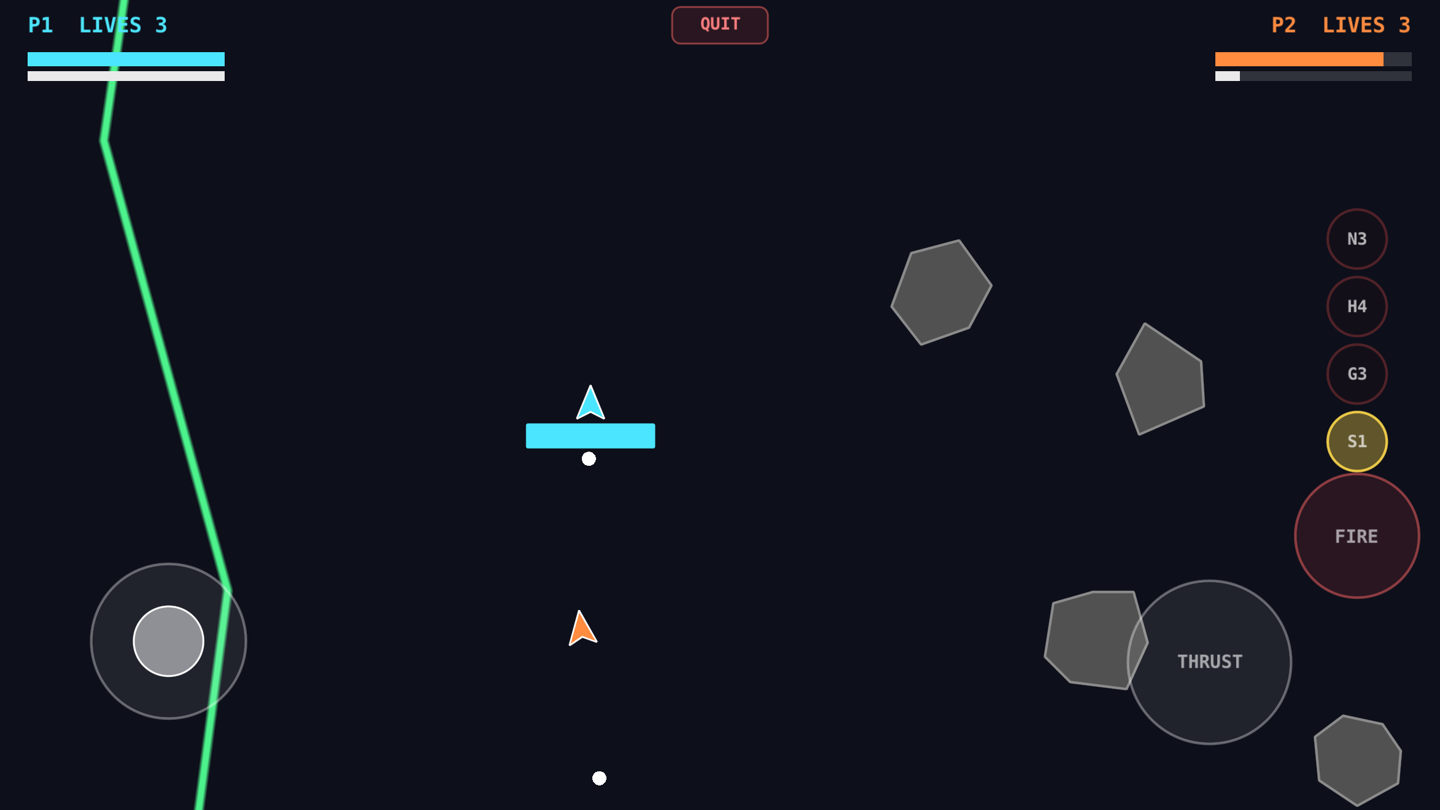
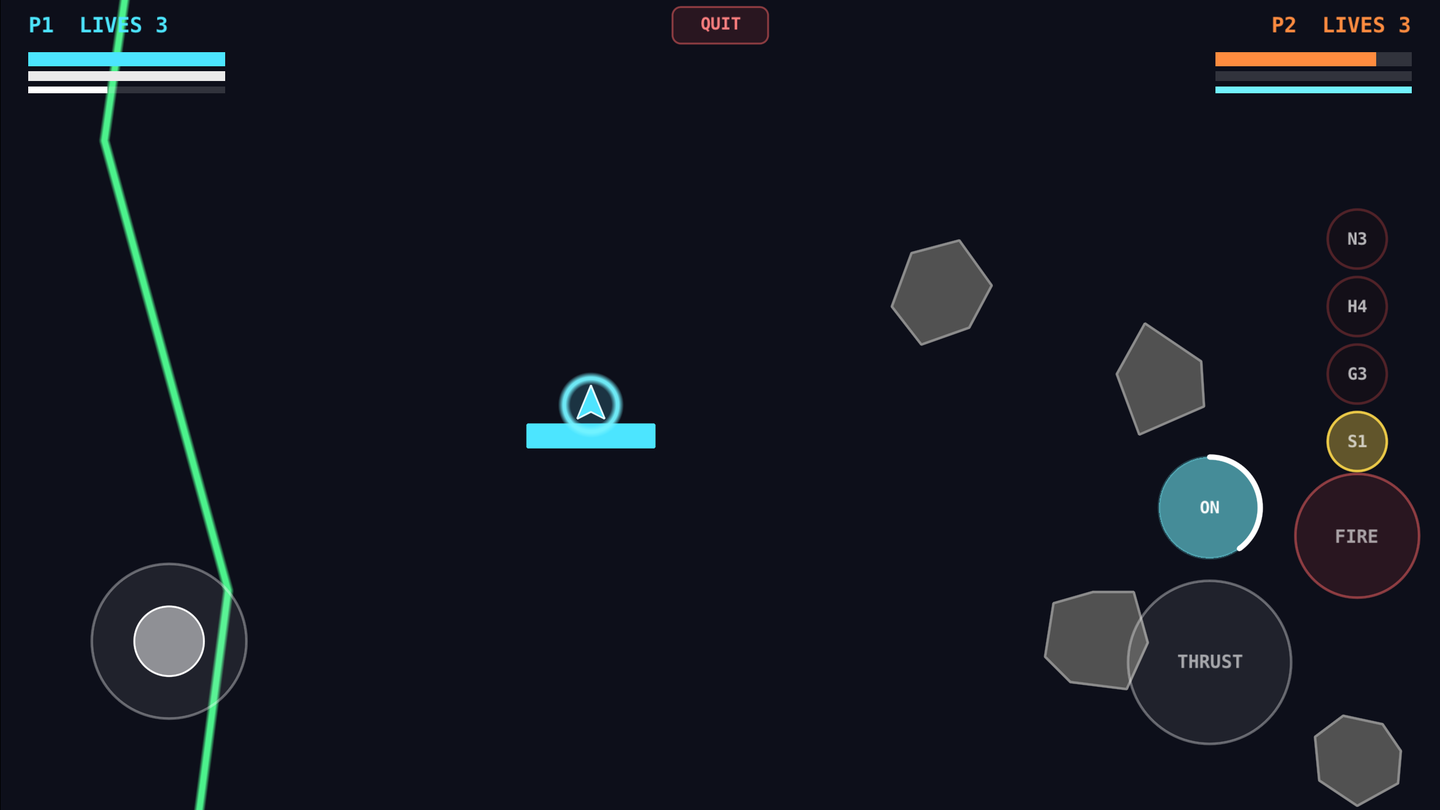
Describe the shield and RULES 6: features, controls, FAQ, privacy table; new screenshots

diff --git a/support.html b/support.html
@@ -28,8 +28,9 @@
       <li><strong>Objective:</strong> each ship has 3 lives. Land 3 hits on your opponent to win.</li>
       <li><strong>Steering:</strong> the stick on the left aims your ship. <span class="label">THRUST</span> fires the engine.</li>
       <li><strong>Firing:</strong> <span class="label">FIRE</span> shoots the loaded round. The buttons above it pick the weapon.</li>
+      <li><strong>Shield:</strong> <span class="label">SHIELD</span> raises a shield for one second. Every shot that touches you in that second is blocked: standard rounds, shotgun pellets, Heat-Seekers and Grenade blasts. After it drops it needs five seconds to recharge. The ring on the button and the thin bar under the ammo bar show where it is, and the other player's bar shows theirs, so you can tell when it's safe to shoot. It doesn't stop a collision with the other ship or with a wall.</li>
       <li><strong>Refuel and rearm:</strong> land gently on <em>your own</em> platform to refill fuel and ammo, and to change weapons.</li>
-      <li><strong>Hazards:</strong> cave walls and rocks are harmless, you just bounce off. Crashing into the other ship destroys you <em>both</em>.</li>
+      <li><strong>Hazards:</strong> cave walls and rocks are harmless, you just bounce off. Crashing into the other ship destroys you <em>both</em>, shield or not.</li>
     </ul>
     <p>The same rules are always available in the app under <span class="label">HELP</span> on the main menu.</p>
   </section>
@@ -38,7 +39,7 @@
     <h2>Game modes</h2>
     <ul>
       <li><span class="label">PLAY NEARBY</span>: two devices in the same room, connected directly over Wi-Fi or Bluetooth. No internet needed.</li>
-      <li><span class="label">PRACTICE (ONE DEVICE)</span>: you against the computer. Pick how hard it plays in <span class="label">SETTINGS</span>.</li>
+      <li><span class="label">PRACTICE (ONE DEVICE)</span>: you against the computer. Pick how hard it plays in <span class="label">SETTINGS</span>: six levels, <span class="label">RULES 1</span> (gentle) to <span class="label">RULES 5</span> (ruthless). Levels 3 to 5 use their shield and sidestep shots they have time to see, and the higher levels react faster. <span class="label">RULES 6</span> plays like level 5 but <em>learns how you fly</em> (see below). <span class="label">STATS</span> shows your record against each level.</li>
       <li><span class="label">AI VS AI</span>: sit back and watch two computer pilots fight it out. The camera zooms out to keep both ships in view, and in as they get close.</li>
       <li><span class="label">REPLAYS</span>: every match is saved on your device (the last 30 are kept). Watch one back from the main menu, pause it, change the speed, and let the camera follow the action or zoom by hand with <span class="label">ZOOM MANUAL</span>: the + and - buttons, or pinch and drag.</li>
     </ul>
@@ -62,6 +63,8 @@
     <p><strong>I tap a weapon and nothing happens.</strong><br>That weapon isn't unlocked yet. The game shows its price for a moment. Buy it in the <span class="label">SHOP</span>. You can also only switch weapons while landed on your own platform.</p>
     <p><strong>PLAY NEARBY doesn't find the other device.</strong><br>Both devices need Wi-Fi or Bluetooth switched on, and both must have allowed Rocket Duel to use the local network. Check that under Settings → Privacy &amp; Security → Local Network. Both devices also need the same version of the game from the App Store.</p>
     <p><strong>My coins or unlocks disappeared.</strong><br>They are stored only on your device, so deleting the app deletes them. They don't carry over between devices.</p>
+    <p><strong>How does RULES 6 learn?</strong><br>After each practice match you finish against <span class="label">RULES 6</span>, it studies the recording of that match: how much of your speed you really keep when it leads its shots, whether you use your shield, and which fighting distance has worked best against you. It then plays the next match a little differently, and the result screen tells you what it noticed. It never gets faster reactions or more ammo than level 5, and it only learns from matches you finish. The first time you choose it, it also studies the practice matches already saved on your device. Everything it learns is stored only on your device. To wipe it, choose <span class="label">RULES 6</span> in <span class="label">SETTINGS</span> and tap the "has studied" line twice.</p>
+    <p><strong>The computer used its shield and I couldn't hit it.</strong><br>The shield only lasts one second and then takes five to recharge. A shot fired right after it drops lands. The computer also can't react to a shot fired from point-blank range any faster than you could.</p>
     <p><strong>Where are my replays?</strong><br>Tap <span class="label">REPLAYS</span> on the main menu. Matches you quit after a few seconds are kept as <em>unfinished</em>. Tap the cross on a row twice to delete it. Replays are stored only on your device, so deleting the app deletes them.</p>
     <p><strong>I bought Remove Ads, but I'm seeing ads again.</strong><br>This can happen after reinstalling or on a new device. Tap <span class="label">REMOVE ADS</span> on the main menu, then <strong>Restore Purchases</strong>. The purchase is tied to your Apple Account, so you never need to buy it twice.</p>
     <p><strong>I don't want to sign in to Game Center.</strong><br>You don't need to. Game Center only keeps the online win leaderboard. Everything else works without it.</p>

diff --git a/privacy.html b/privacy.html
@@ -23,7 +23,7 @@
   <p class="updated">Last updated October 4, 2026</p>
 
   <div class="summary">
-    <p><strong>The short version:</strong> Your coins, unlocks, stats and settings stay on your device. We have no servers, no accounts and no analytics of our own.</p>
+    <p><strong>The short version:</strong> Your coins, unlocks, stats, settings and anything the computer learns about how you play stay on your device. We have no servers, no accounts and no analytics of our own.</p>
     <p>Three things do leave your device: match data sent straight to your opponent's device when you play nearby, your wins sent to Apple's Game Center if you're signed in, and the data Google's ad service collects to show ads. All three are covered in full below.</p>
   </div>
 
@@ -35,12 +35,14 @@
         <tr><td>Coins, unlocked weapons and ship skins</td><td>Your device's local app storage</td><td><span class="pill">No</span></td></tr>
         <tr><td>Your win/loss stats</td><td>Your device's local app storage</td><td><span class="pill">No</span></td></tr>
         <tr><td>Settings (gravity, thrust, practice AI level)</td><td>Your device's local app storage</td><td><span class="pill">No</span></td></tr>
+        <tr><td>Your practice record against each AI level (wins, losses, draws)</td><td>Your device's local app storage</td><td><span class="pill">No</span></td></tr>
+        <tr><td>What RULES 6 has learned about how you play (a few numbers: your aiming habits, whether you use your shield, a preferred fighting distance)</td><td>Your device's local app storage</td><td><span class="pill">No</span></td></tr>
         <tr><td>Replays of your last 30 matches (ship positions, shots and results)</td><td>Your device's local app storage</td><td><span class="pill">No</span></td></tr>
         <tr><td>Live match data during a Play Nearby match</td><td>Sent directly to your opponent's device</td><td>Only to that device. Never to us.</td></tr>
         <tr><td>Your total online wins</td><td>Apple's Game Center</td><td>Yes, to Apple, under Apple's own privacy policy</td></tr>
       </table>
     </div>
-    <p>Deleting the app deletes everything in the first four rows. There is no copy anywhere else. You can also delete any replay from the REPLAYS screen.</p>
+    <p>Deleting the app deletes everything in the first six rows. There is no copy anywhere else. You can also delete any replay from the REPLAYS screen, and erase what RULES 6 has learned from SETTINGS.</p>
   </section>
 
   <section>

diff --git a/index.html b/index.html
@@ -30,8 +30,10 @@
 
   <div class="features">
     <div class="feature"><h3>Play nearby</h3><p>Two devices in the same room, connected directly. No internet or account needed.</p></div>
-    <div class="feature"><h3>Practice</h3><p>Fight a computer pilot at five difficulty levels, from gentle to ruthless.</p></div>
+    <div class="feature"><h3>Practice</h3><p>Fight a computer pilot at six difficulty levels, from gentle to ruthless. The sixth studies how you fly and adapts to you.</p></div>
+    <div class="feature"><h3>Shield</h3><p>Block every shot for one second, then wait five for it to recharge. Time it right, and watch your opponent's shield bar.</p></div>
     <div class="feature"><h3>Four weapons</h3><p>Standard rounds, Shotgun, Heat-Seeker and Grenade, each needing a different approach.</p></div>
+    <div class="feature"><h3>Replays</h3><p>Every match is saved on your device. Watch it back with the camera framing the action, or zoom by hand.</p></div>
     <div class="feature"><h3>Earn and unlock</h3><p>Every match pays coins. Spend them on weapons and new ship colours.</p></div>
   </div>
 
